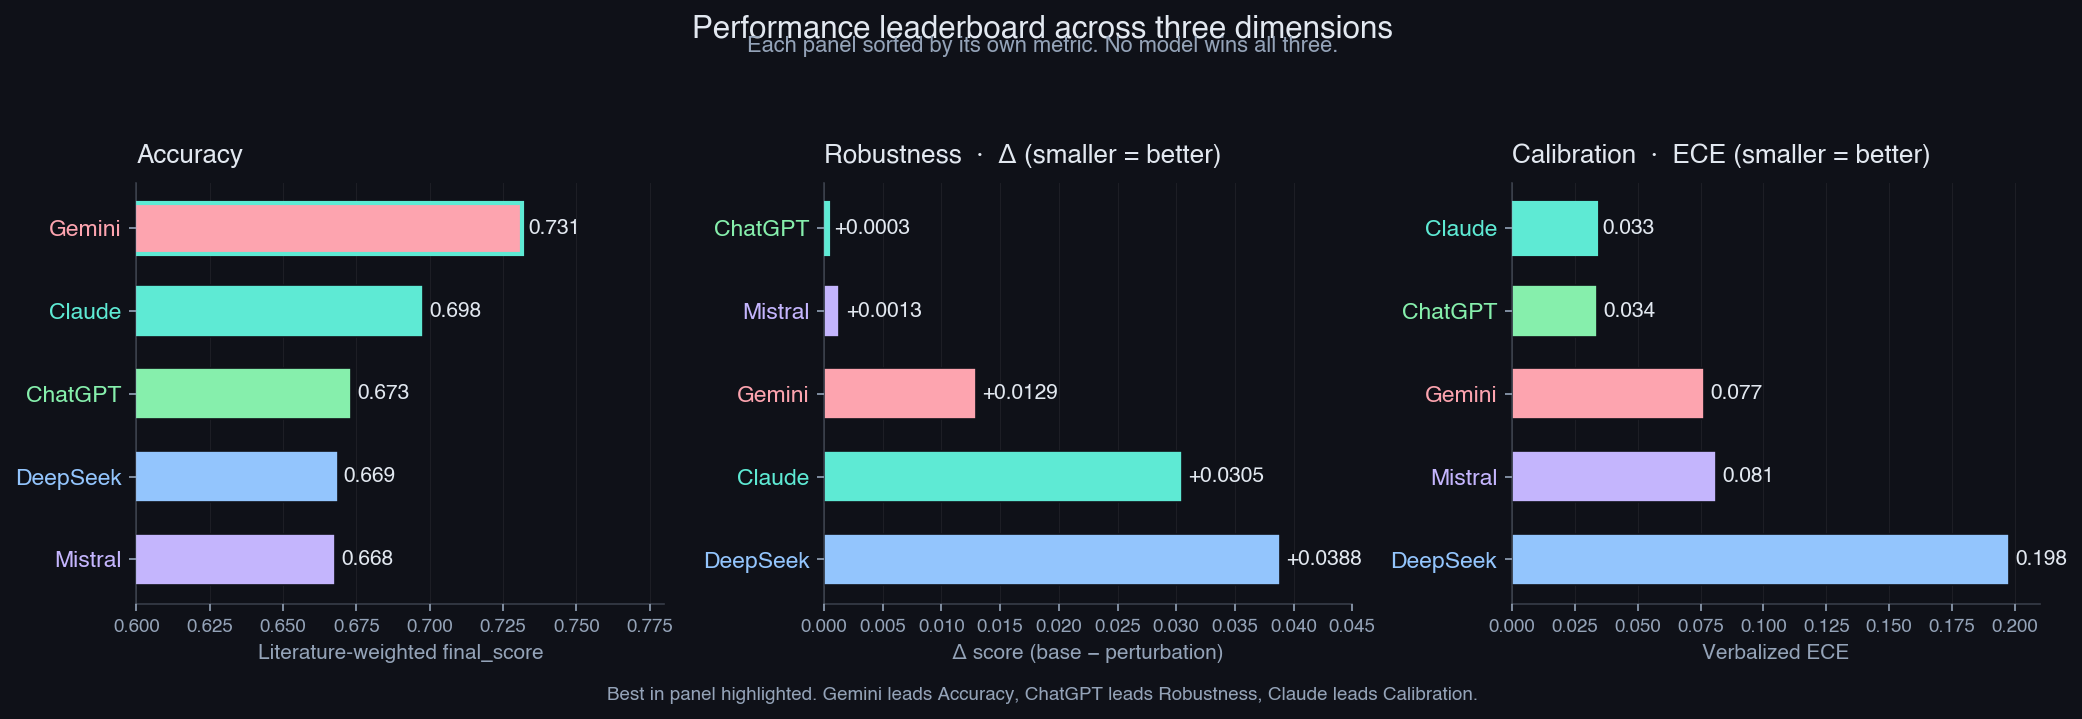
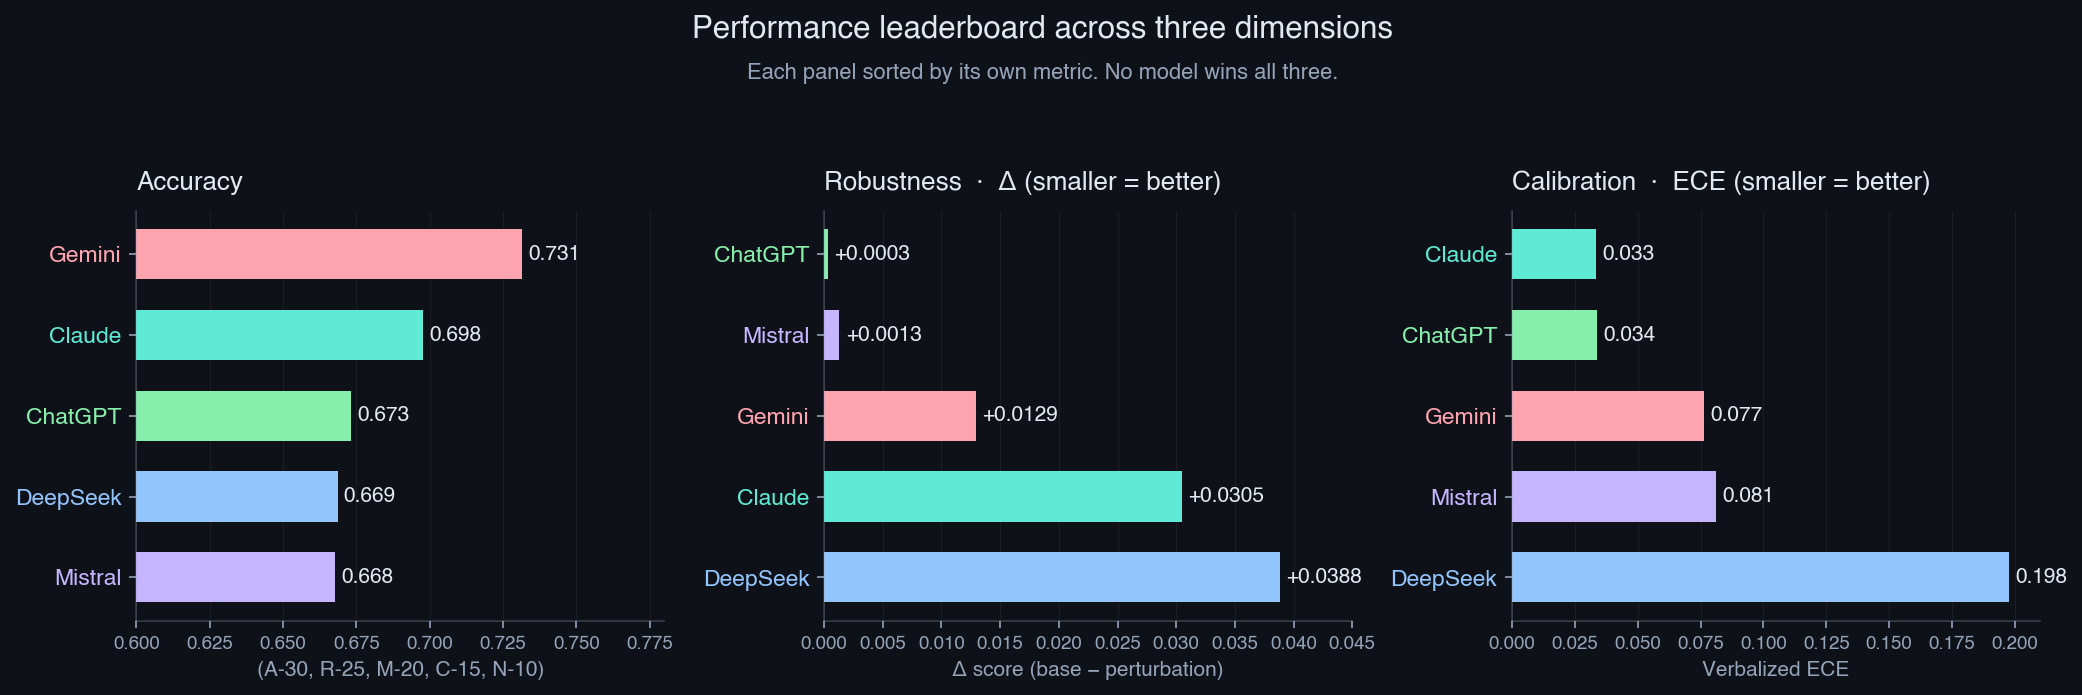
dimension_leaderboard polish: subtitle spacing, accuracy x-label rename, drop highlights, drop caption

Changed region(s): [[0.0, 0.1813, 0.999, 0.9971], [0.3434, 0.0302, 0.6868, 0.1209], [0.3746, 0.1813, 0.5932, 0.2719]]

diff --git a/scripts/dimension_leaderboard.py b/scripts/dimension_leaderboard.py
@@ -26,7 +26,7 @@ import numpy as np
 ROOT = Path(__file__).resolve().parents[1]
 sys.path.insert(0, str(Path(__file__).resolve().parent))
 from site_palette import (
-    SITE_BG, SITE_FG, SITE_FG_MUTED, MODEL_COLORS, ACCENT_TEAL,
+    SITE_BG, SITE_FG, SITE_FG_MUTED, MODEL_COLORS,
     apply_site_theme, dim_remaining_spines,
 )
 
@@ -50,22 +50,13 @@ MODELS = ["claude", "chatgpt", "gemini", "deepseek", "mistral"]
 
 
 def _draw_panel(ax, sorted_models, values, *, xlim, title, xlabel,
-                value_fmt, best_lower_is_better):
-    """One horizontal-bar panel: sorted bars, end-of-bar value labels,
-    edgecolor highlight on the panel-best bar.
-    """
+                value_fmt):
+    """One horizontal-bar panel: sorted bars with end-of-bar value labels."""
     ax.set_facecolor(SITE_BG)
     y_pos = np.arange(len(sorted_models))
 
-    best_idx = 0 if not best_lower_is_better else 0
-    # sorted order already places the best at index 0 because the caller
-    # sorts ascending for lower-is-better and descending for higher-is-better.
-
     for i, m in enumerate(sorted_models):
-        edge = ACCENT_TEAL if i == best_idx else SITE_BG
-        lw = 2.0 if i == best_idx else 0.8
-        ax.barh(y_pos[i], values[i], color=MODEL_COLORS[m],
-                edgecolor=edge, linewidth=lw, height=0.62)
+        ax.barh(y_pos[i], values[i], color=MODEL_COLORS[m], height=0.62)
 
     span = xlim[1] - xlim[0]
     label_offset = span * 0.012
@@ -110,37 +101,30 @@ def main():
                 [accuracy[m] for m in acc_order],
                 xlim=(0.6, 0.78),
                 title="Accuracy",
-                xlabel="Literature-weighted final_score",
-                value_fmt="{:.3f}",
-                best_lower_is_better=False)
+                xlabel="(A-30, R-25, M-20, C-15, N-10)",
+                value_fmt="{:.3f}")
 
     _draw_panel(axes[1], rob_order,
                 [delta[m] for m in rob_order],
                 xlim=(0.0, 0.045),
                 title="Robustness  ·  Δ (smaller = better)",
                 xlabel="Δ score (base − perturbation)",
-                value_fmt="{:+.4f}",
-                best_lower_is_better=True)
+                value_fmt="{:+.4f}")
 
     _draw_panel(axes[2], cal_order,
                 [ece[m] for m in cal_order],
                 xlim=(0.0, 0.21),
                 title="Calibration  ·  ECE (smaller = better)",
                 xlabel="Verbalized ECE",
-                value_fmt="{:.3f}",
-                best_lower_is_better=True)
+                value_fmt="{:.3f}")
 
     fig.suptitle("Performance leaderboard across three dimensions",
                  fontsize=15, fontweight="700", color=SITE_FG, y=1.02)
-    fig.text(0.5, 0.965,
+    fig.text(0.5, 0.925,
              "Each panel sorted by its own metric. No model wins all three.",
              ha="center", fontsize=10.5, color=SITE_FG_MUTED, style="italic")
-    fig.text(0.5, 0.005,
-             "Best in panel highlighted. Gemini leads Accuracy, "
-             "ChatGPT leads Robustness, Claude leads Calibration.",
-             ha="center", fontsize=9, color=SITE_FG_MUTED)
 
-    fig.tight_layout(rect=(0, 0.025, 1, 0.94))
+    fig.tight_layout(rect=(0, 0.0, 1, 0.9))
 
     OUT.parent.mkdir(parents=True, exist_ok=True)
     WEB_OUT.parent.mkdir(parents=True, exist_ok=True)
